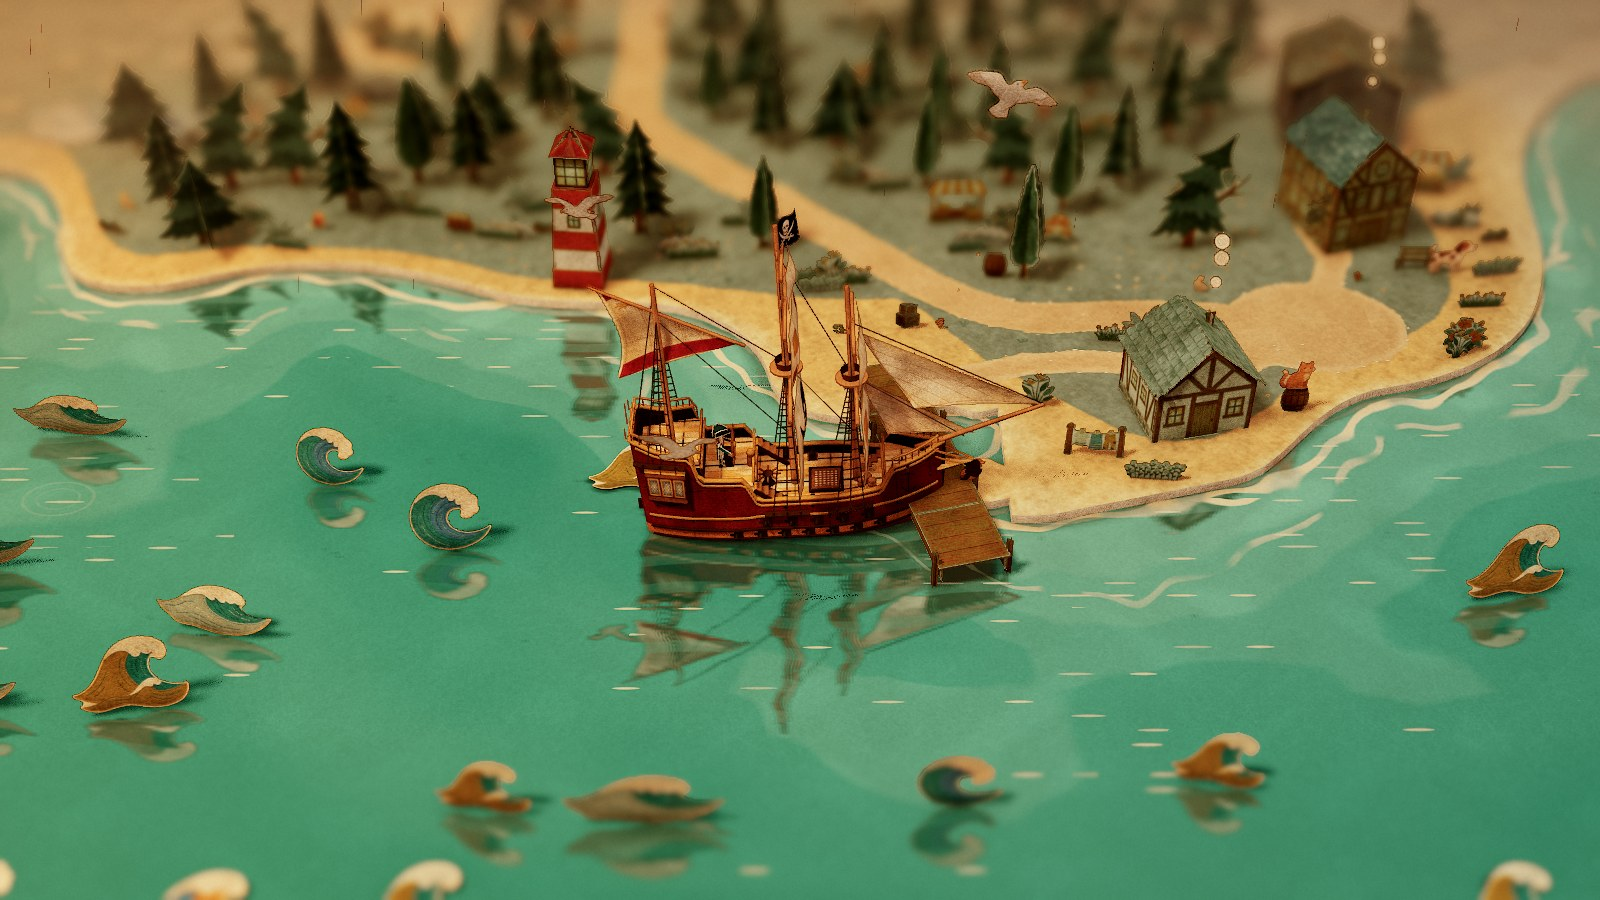
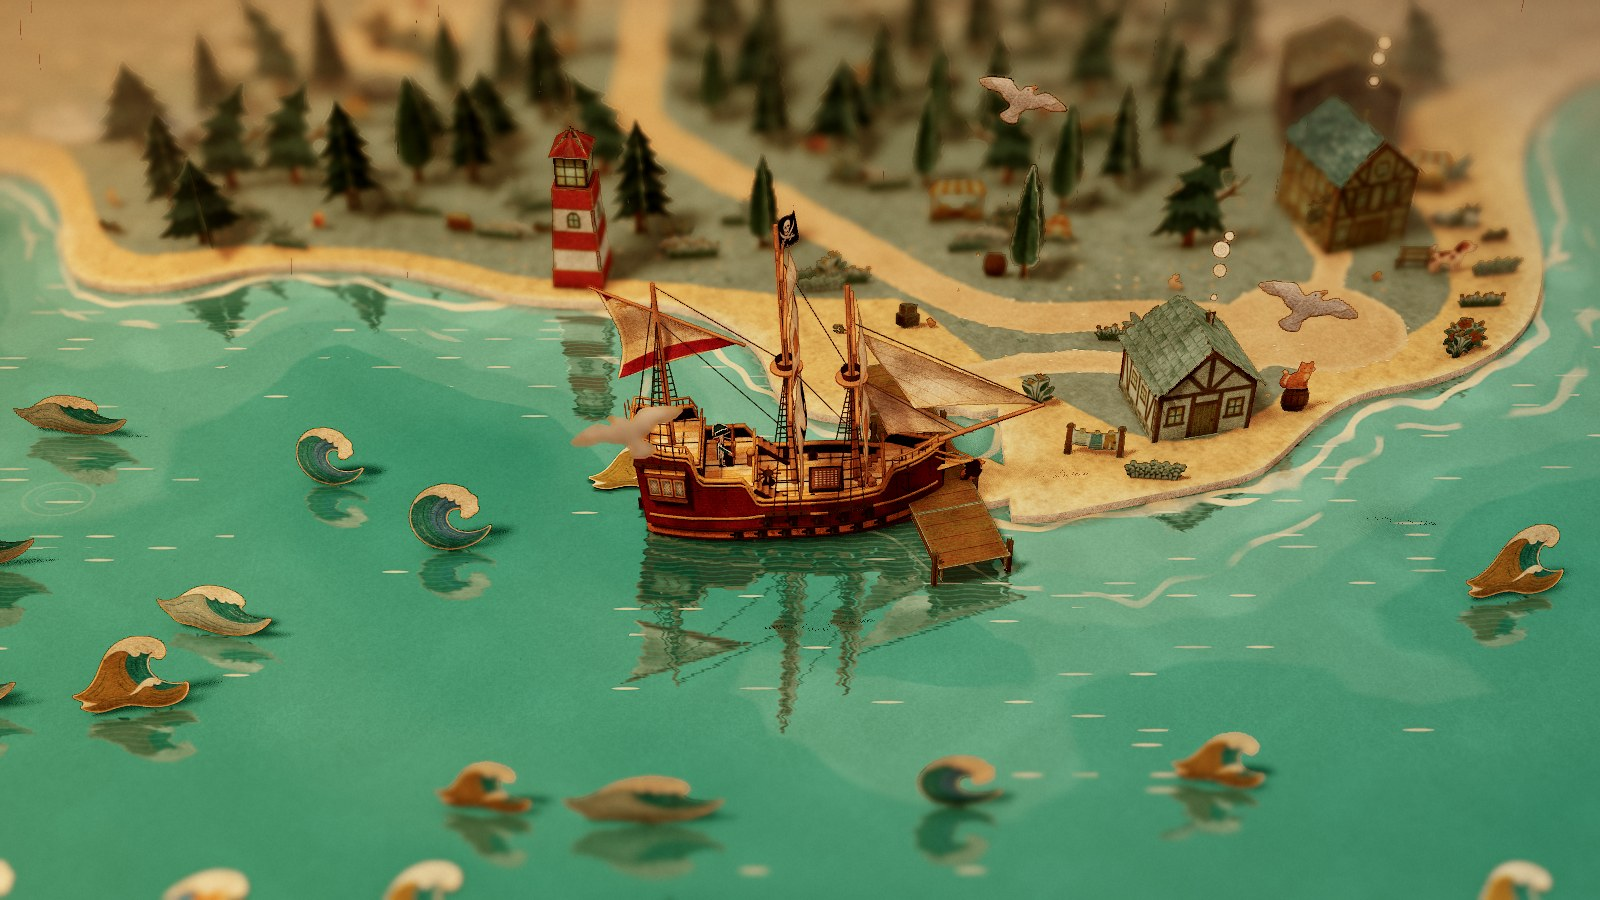
fix: the sea's mirror ripples and tints as papertrails' does
The mirror shifted on wave trains about six times too wide and twice
too far, so the reflection broke into thick stripes. It now takes
papertrails' two fine wave trains (periods 0.15 and 0.06 units), its
0.017 displacement and band breakup, and its colour: tinted 0.6 of the
way to the water, gain 0.88, lit panes and lanterns kept bright.
README photos with reflections retaken.

diff --git a/src/sea/sea-surface.ts b/src/sea/sea-surface.ts
@@ -15,6 +15,16 @@ import type { DistanceMap } from './distance-map';
 import type { Reflection } from '../render/reflection';
 
 const SIZE = 280;
+/**
+ * papertrails' mirror (config/world.js water.mirror there, render/water.js WATER_DEFAULTS.mirror): its sideways
+ * ripple (world units), its strength, how far its image is tinted toward the water, its gain, and the gain of what is
+ * brighter than paper.
+ */
+const MIRROR_DISTORT = '0.017';
+const MIRROR_STRENGTH = '0.7';
+const MIRROR_TINT = '0.6';
+const MIRROR_GAIN = '0.88';
+const MIRROR_HOT = '0.62';
 
 const SEA_GLSL = /* glsl */ `
 varying vec3 vSeaPos;
@@ -83,14 +93,22 @@ vec3 seaColour(vec2 p) {
   gSeaMirror = vec3(0.0);
   gSeaMirrorW = 0.0;
   if (uReflOn > 0.5) {
-    float w1 = sin(p.y * 7.0 + T * 1.5 + 1.8 * sin(p.x * 1.1 + T * 0.45));
-    float w2 = sin(p.y * 17.0 - T * 2.2 + 1.2 * sin(p.x * 2.4 - T * 0.7));
-    vec4 rc4 = uReflMatrix * vec4(p.x + 0.035 * (w1 + 0.45 * w2), 0.0, p.y, 1.0);
-    vec2 ruv = rc4.xy / rc4.w;
-    vec4 m = texture2D(uRefl, ruv) * 0.5 + texture2D(uRefl, ruv + vec2(0.002, 0.0)) * 0.25 + texture2D(uRefl, ruv - vec2(0.002, 0.0)) * 0.25;
-    float breakup = 0.75 + 0.25 * smoothstep(-0.6, -0.2, w2);
-    gSeaMirrorW = m.a * breakup * (1.0 - clamp(dash + foam, 0.0, 1.0)) * 0.72;
-    gSeaMirror = m.rgb * mix(vec3(1.0), uSeaMid * 1.6, 0.45);
+    // papertrails' real mirror (render/water.js there): the image shifts row by row on two fine wave trains (periods
+    // 0.15 and 0.06 units, its WKF(1700) and WKF(4100)), MIRROR_DISTORT units at most, and dims a little in bands
+    float w1 = sin(p.y * 41.72 + T * 1.5 + 1.8 * sin(p.x * 6.381 + T * 0.45));
+    float w2 = sin(p.y * 100.63 - T * 2.2 + 1.2 * sin(p.x * 14.97 - T * 0.7));
+    vec2 shift = vec2(w1 + 0.45 * w2, 0.35 * w2) * ${MIRROR_DISTORT};
+    vec4 rc4 = uReflMatrix * vec4(p.x + shift.x, 0.0, p.y + shift.y, 1.0);
+    vec4 m = texture2D(uRefl, rc4.xy / rc4.w);
+    float breakup = 0.82 + 0.18 * smoothstep(-0.75, -0.35, w2);
+    float cover = clamp(m.a, 0.0, 1.0) * breakup * (1.0 - clamp(dash + foam, 0.0, 1.0));
+    // its colour: the image tinted MIRROR_TINT of the way to the water under it and a little darker (MIRROR_GAIN);
+    // what is brighter than paper (lit panes, lanterns) stays bright and untinted (MIRROR_HOT), and always shows
+    vec3 rcol = m.rgb / max(m.a, 0.05);
+    vec3 rtint = mix(vec3(1.0), col / max(max(col.r, max(col.g, col.b)), 0.05), ${MIRROR_TINT});
+    float rhot = smoothstep(0.9, 2.2, max(rcol.r, max(rcol.g, rcol.b)));
+    gSeaMirror = rcol * mix(rtint * ${MIRROR_GAIN}, vec3(${MIRROR_HOT}), rhot);
+    gSeaMirrorW = max(cover * ${MIRROR_STRENGTH}, rhot * cover);
   }
   return col;
 }
